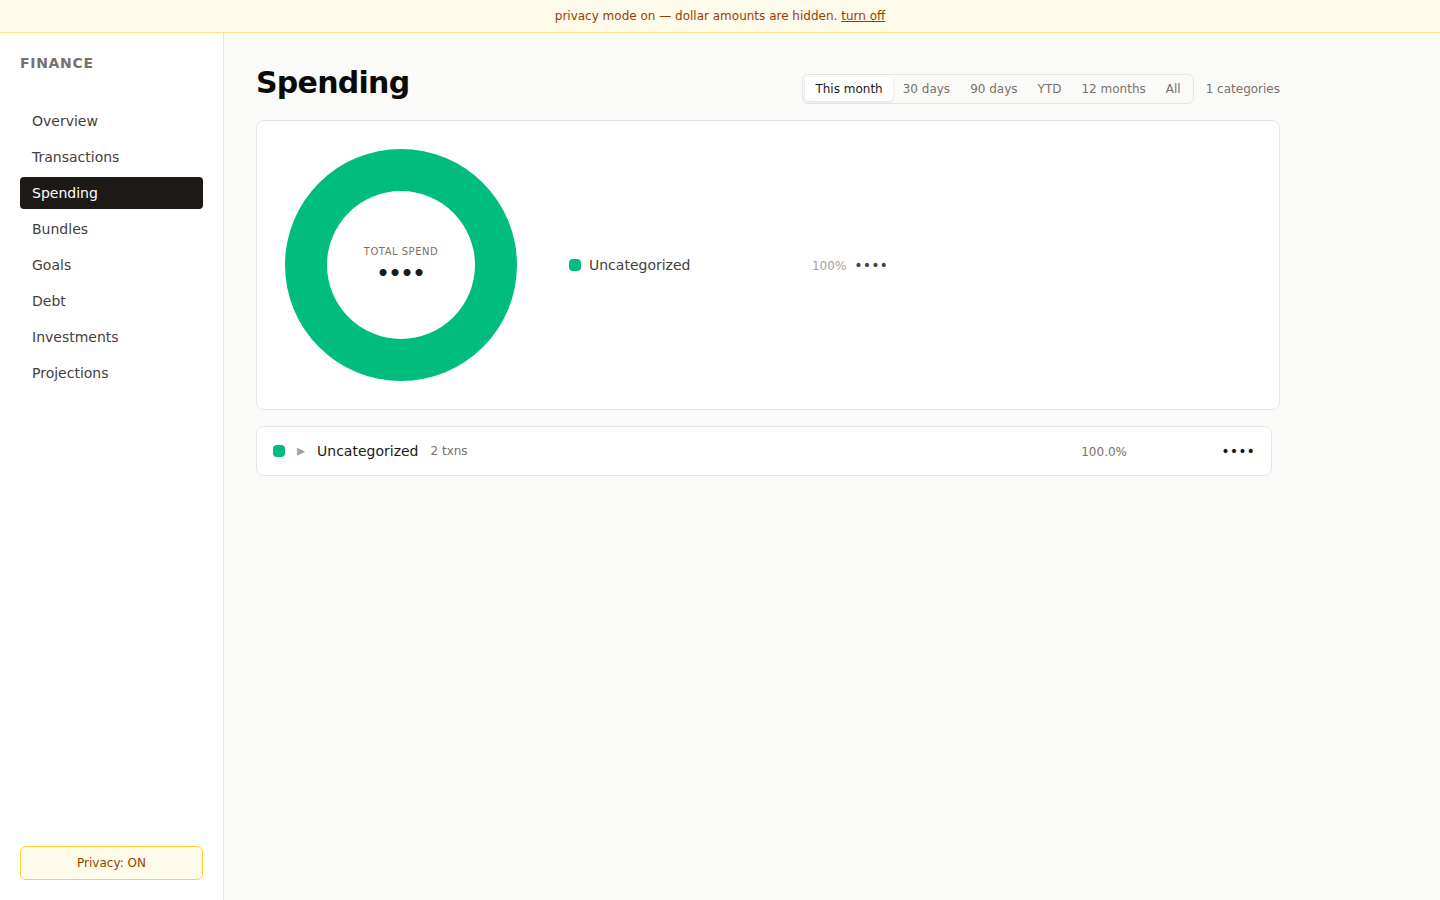
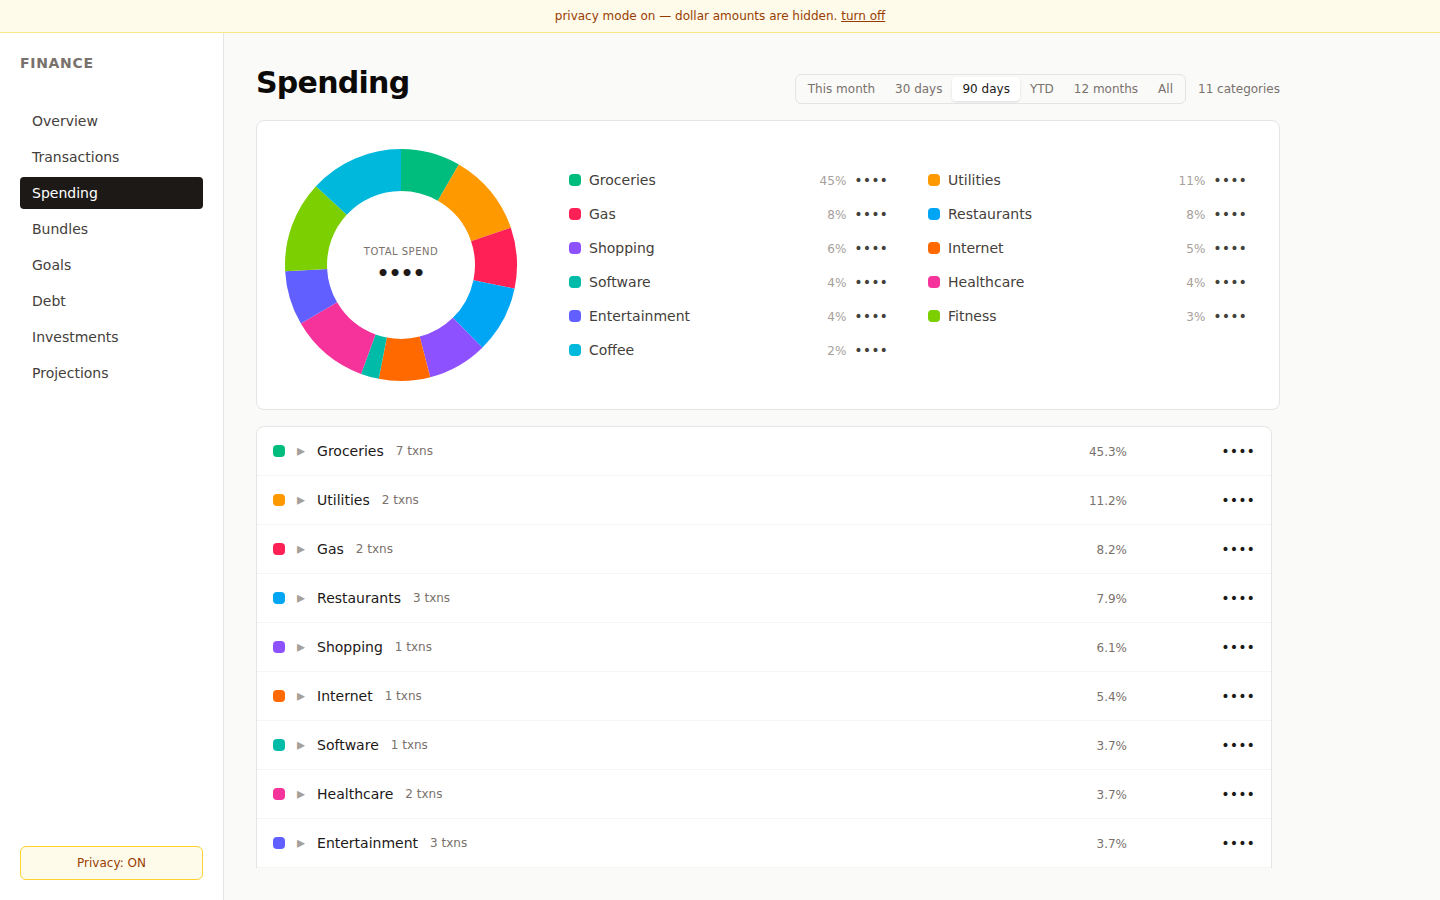
fixtures: categorize simple_household spending; widen spending range
Adds transaction_items rows (one per spending txn) so the Spending page
shows a real category breakdown — Groceries, Restaurants, Coffee, Gas,
Utilities, Internet, Software, Entertainment, Healthcare, Fitness, Shopping
— instead of 100% Uncategorized.

Approach A: extended both loaders (scenarios.ts + scenarios.py) and the
fixture schema (_schema.json) to support an optional `items` sub-list
inside each posting entry; `transaction_v2_id` is auto-linked to the
parent txn. All 27 spending transactions in simple_household.yaml now
carry a categorized item row.

Also widens the Spending screenshot to 90 days (Playwright clicks the
"90 days" button after navigation) so the 25 May transactions are captured
instead of only the 2 June ones that "This month" showed.

diff --git a/scripts/screenshots.ts b/scripts/screenshots.ts
@@ -166,7 +166,24 @@ async function main(): Promise<void> {
 
     console.log("[screenshots] Capturing pages...");
     await capture(page, "/", "networth.png");
-    await capture(page, "/spending", "spending.png");
+
+    // Spending: navigate, then widen range to 90 days so May transactions show.
+    console.log(`  Navigating to ${WEB_BASE}/spending ...`);
+    await page.goto(`${WEB_BASE}/spending`, { waitUntil: "load", timeout: 45_000 });
+    await page.waitForSelector("aside nav", { timeout: 15_000 });
+    await page.waitForTimeout(800);
+    // Click the "90 days" range button
+    const btn90 = page.getByRole("button", { name: "90 days" });
+    if (await btn90.isVisible()) {
+      await btn90.click();
+      await page.waitForTimeout(800);
+    }
+    {
+      const out = resolve(SCREENSHOTS_DIR, "spending.png");
+      await page.screenshot({ path: out, fullPage: false });
+      console.log(`    Wrote ${out}`);
+    }
+
     await capture(page, "/investments", "investments.png");
 
     console.log("[screenshots] Done.");

diff --git a/apps/server/test/scenarios.ts b/apps/server/test/scenarios.ts
@@ -130,16 +130,27 @@ export function loadScenarioText(
   if (Array.isArray(doc.postings)) {
     const txnCols = columnsOf(db, "transactions_v2");
     const postCols = columnsOf(db, "postings");
-    (doc.postings as Array<{ txn: Record<string, unknown>; legs: Array<Record<string, unknown>> }>)
+    const itemCols = columnsOf(db, "transaction_items");
+    (doc.postings as Array<{ txn: Record<string, unknown>; legs: Array<Record<string, unknown>>; items?: Array<Record<string, unknown>> }>)
       .forEach((p, i) => {
         const txnId = insertRow(db, "transactions_v2", p.txn, txnCols, fixturePath, i);
+        const txnIdNum = typeof txnId === "bigint" ? Number(txnId) : txnId;
         p.legs.forEach((leg, j) => {
           insertRow(
             db, "postings",
-            { ...leg, txn_id: typeof txnId === "bigint" ? Number(txnId) : txnId },
+            { ...leg, txn_id: txnIdNum },
             postCols, fixturePath, `${i}/${j}`,
           );
         });
+        if (Array.isArray(p.items)) {
+          p.items.forEach((item, k) => {
+            insertRow(
+              db, "transaction_items",
+              { ...item, transaction_v2_id: txnIdNum },
+              itemCols, fixturePath, `${i}/item${k}`,
+            );
+          });
+        }
       });
   }
 

diff --git a/pipeline/tests/scenarios.py b/pipeline/tests/scenarios.py
@@ -163,12 +163,17 @@ def load_scenario_text(
     if "postings" in doc:
         txn_cols = _columns(conn, "transactions_v2")
         post_cols = _columns(conn, "postings")
+        item_cols = _columns(conn, "transaction_items")
         for i, p in enumerate(doc["postings"]):
             txn_id = _insert_row(conn, "transactions_v2", dict(p["txn"]), txn_cols, fixture_path, i)
             for j, leg in enumerate(p["legs"]):
                 row = dict(leg)
                 row["txn_id"] = txn_id
                 _insert_row(conn, "postings", row, post_cols, fixture_path, f"{i}/{j}")
+            for k, item in enumerate(p.get("items") or []):
+                row = dict(item)
+                row["transaction_v2_id"] = txn_id
+                _insert_row(conn, "transaction_items", row, item_cols, fixture_path, f"{i}/item{k}")
 
     if "balance_assertions" in doc:
         cols = _columns(conn, "balance_assertions")